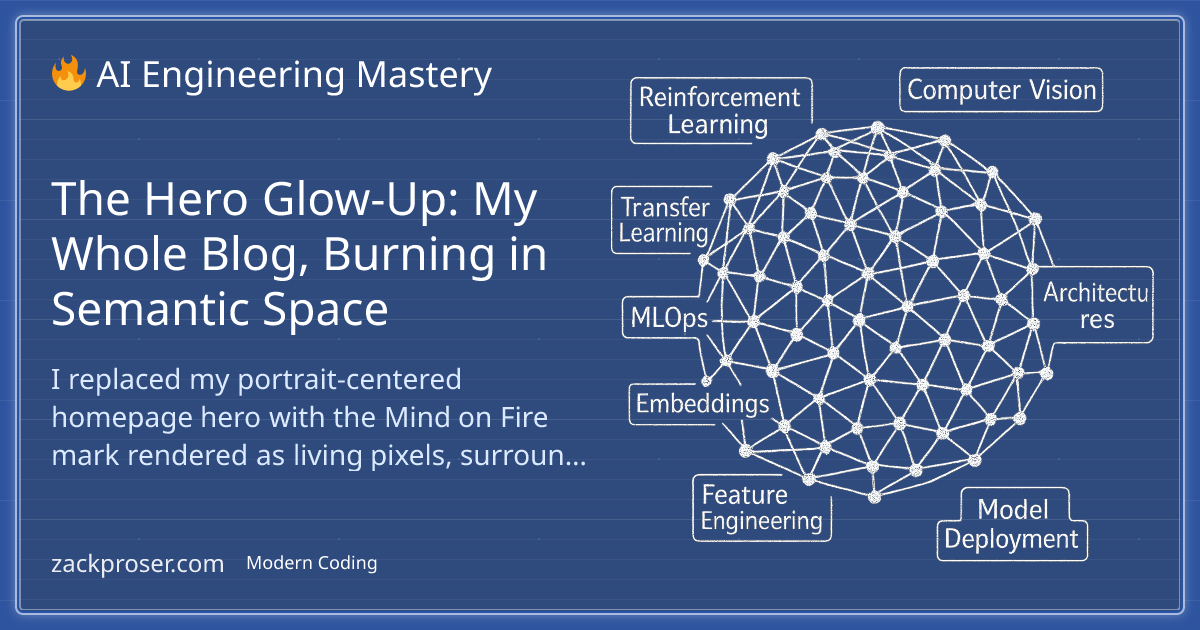
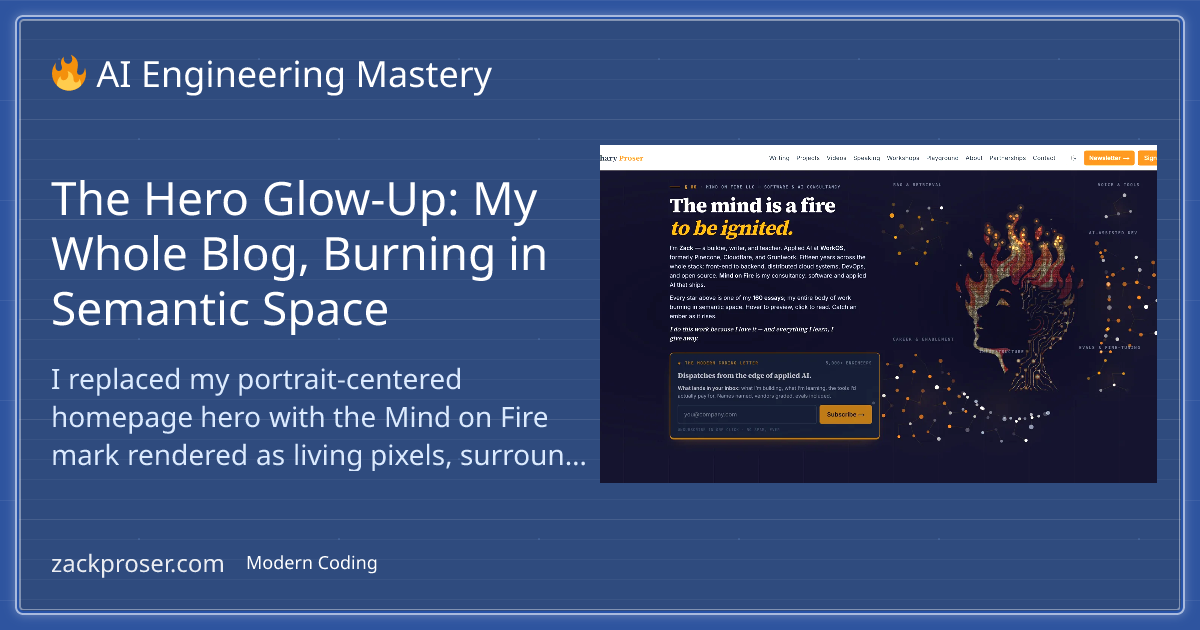
Fix hero-glow-up copy and OG image
- Regenerate OG image with the post's actual hero screenshot instead of
  the generic fallback graphic (already uploaded and purged on Bunny CDN)
- Correct "five-plus years" to fifteen in the timeline animation passage
- Homepage hero lede: "front-end" -> "frontend"

Changed region(s): [[0.4933, 0.1206, 0.9867, 0.9048], [0.74, 0.0905, 0.925, 0.181]]

diff --git a/src/components/MindOnFireHero.tsx b/src/components/MindOnFireHero.tsx
@@ -1448,7 +1448,7 @@ export function MindOnFireHero() {
           <p className="mof-lede text-parchment-600 dark:text-slate-300">
             I&rsquo;m <strong>Zack</strong> &mdash; a builder, writer, and teacher.
             Applied AI at <strong>WorkOS</strong>, formerly Pinecone, Cloudflare,
-            and Gruntwork. Fifteen years across the whole stack: front-end to
+            and Gruntwork. Fifteen years across the whole stack: frontend to
             backend, distributed cloud systems, DevOps, and open source.{' '}
             <strong>Mind on Fire</strong> is my consultancy: software and applied
             AI that ships.